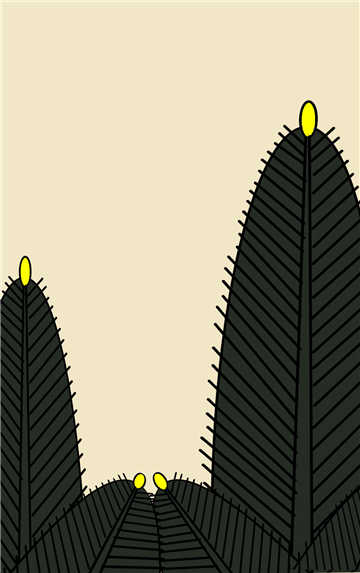
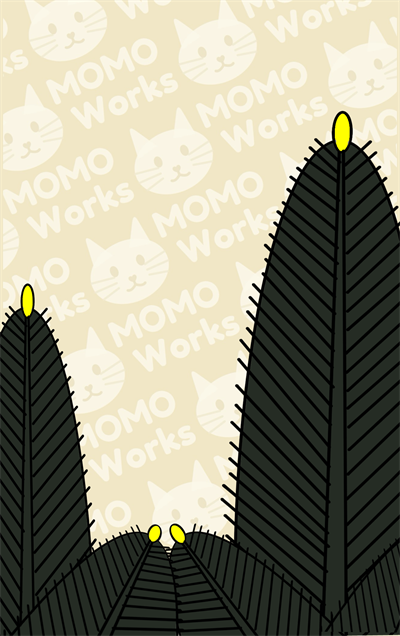
Hanafuda v1.54: 達成役に「達成した役：」見出し＋松のカス1差替・松のカス2画像化
- 取り札ヒントの成立役に「達成した役：」の見出しを付与（game.done.prefix・ja/en/zh）。
- 松のカス(m01_kasu1)をユーザー手描きの新PNGに差し替え、松のカス2(m01_kasu2)をSVGから手描きPNGへ画像化(縁付き・地紋は画像に焼き込み済み)。画像は 400x636 に縮小(各230KB台)。m01_kasu2 のシンボルを「縁+画像」構造へ変更。

Changed region(s): [[0.0, 0.0, 1.0, 0.8901], [0.9778, 0.9791, 1.0, 1.0], [0.0, 0.0297, 0.0306, 0.0593]]

diff --git a/games/hanafuda/index.html b/games/hanafuda/index.html
@@ -75,7 +75,7 @@
   .settings-volume-slider::-webkit-slider-thumb{-webkit-appearance:none;appearance:none;width:18px;height:18px;background:var(--orange-mid);border-radius:50%;cursor:pointer;border:2px solid #fff;}
   .settings-volume-slider::-moz-range-thumb{width:18px;height:18px;background:var(--orange-mid);border-radius:50%;cursor:pointer;border:2px solid #fff;}
   .settings-row-hint{font-size:11px;color:var(--text-muted);font-style:italic;}
-  /* v1.53: 音量スライダー＋右のミュートチェック */
+  /* v1.54: 音量スライダー＋右のミュートチェック */
   .vol-line{display:flex;align-items:center;gap:12px;}
   .vol-line .settings-volume-slider{flex:1;width:auto;}
   .mute-chk{display:flex;align-items:center;gap:5px;font-size:.72rem;color:var(--text-muted);white-space:nowrap;cursor:pointer;user-select:none;}
@@ -270,7 +270,7 @@
   .ct-row{display:flex;align-items:baseline;gap:10px;flex-wrap:wrap;}
   .nearcap{font-size:.62rem;color:var(--text-muted);}
   .nearcap b{color:var(--gold);}
-  .nearcap b.done{color:var(--orange);} /* v1.53: すでに成立している役＝オレンジ */
+  .nearcap b.done{color:var(--orange);} /* v1.54: すでに成立している役＝オレンジ */
   .nearcap b.dead{color:var(--gold);text-decoration:line-through;opacity:.75;} /* v1.42: 成立不可＝金色のまま見え消し */
   .mult-badge{display:inline-block;margin-left:6px;font-size:.78rem;font-weight:800;color:var(--gold-ink,#1a1206);background:var(--gold);border-radius:6px;padding:1px 7px;} /* v1.44: 倍率表示 */
   /* v1.46: ?debug=1で常時表示。対局を隠さないよう右上のコンパクト折りたたみ式（既定は畳んでヘッダのみ・コピーは畳んだままでも可） */
@@ -297,7 +297,7 @@
   .caprow .cards{display:flex;}
   .caprow .cards+.gl{margin-left:5px;padding-left:5px;border-left:1px solid var(--border);}
 
-  /* v1.53: 横画面（PC/横向き）＝A案レイアウト。縦画面は従来どおり。
+  /* v1.54: 横画面（PC/横向き）＝A案レイアウト。縦画面は従来どおり。
      左列＝相手手札→場→自分手札（縦の流れ維持）、右列＝取り札を上下（種別分けのまま）。 */
   @media (orientation:landscape){
     /* 対局画面（#screen-game 自身が .wrap）だけ外枠を広げる。他画面の狭い .wrap は影響なし */
@@ -405,7 +405,7 @@
   .btn-row .btn{flex:1;padding:11px;font-size:.9rem;}
   .btn-koikoi{background:#b8342b;color:#fff;}
   .btn-shobu{background:var(--orange);color:#fff;}
-  .btn-minooshi{background:transparent;color:var(--text-muted);border:1px solid var(--border-strong);} /* v1.53: 見送り＝役を取らず継続 */
+  .btn-minooshi{background:transparent;color:var(--text-muted);border:1px solid var(--border-strong);} /* v1.54: 見送り＝役を取らず継続 */
   .hint{font-size:.72rem;color:var(--text-muted);margin-top:8px;line-height:1.55;}
 
   /* SEO footer (MOMO Go 準拠：surface 背景・上罫線なし。テキストは text-muted より明るめ) */
@@ -596,8 +596,8 @@
     <path d="M0 16 C -2 -6 -1 -22 0 -32" stroke="#7fc4b0" stroke-width="1" fill="none" opacity=".6"/>
   </g>
   <g id="backFace"><rect x="3" y="3" width="214" height="344" rx="14" fill="#3a2418" stroke="#20130c" stroke-width="2.5"/></g>
-  <!-- v1.53: 札の地紋（MOMO猫＋MOMO Works・反転クリーム・生成り地）。build: emit_card_pattern.py --><defs><g id="ct_cat"><g transform="rotate(-12,-12,8.3)"><path d="M-21.6,-14.94 L-14.549,-35.916 Q-12,-43.5 -9.451,-35.916 L-2.4,-14.94 Z" fill="#fcf8ea"/></g><g transform="rotate(12,12,8.3)"><path d="M2.4,-14.94 L9.451,-35.916 Q12,-43.5 14.549,-35.916 L21.6,-14.94 Z" fill="#fcf8ea"/></g><ellipse cx="0" cy="1.3" rx="34" ry="26" fill="#fcf8ea"/><g stroke="#f2ead1" stroke-width="1.8" stroke-linecap="round"><line x1="-14" y1="1.00" x2="-33.68" y2="-2.28"/><line x1="-14" y1="6.0" x2="-33.44" y2="6.0"/><line x1="-14" y1="10.59" x2="-29.58" y2="14.26"/><line x1="14" y1="1.00" x2="33.68" y2="-2.28"/><line x1="14" y1="6.0" x2="33.44" y2="6.0"/><line x1="14" y1="10.59" x2="29.58" y2="14.26"/></g><ellipse cx="-12" cy="-3.7" rx="3.4" ry="4.8" fill="#ece2c4"/><ellipse cx="12" cy="-3.7" rx="3.4" ry="4.8" fill="#ece2c4"/><path d="M0,6.3 C-0.8,4.8 -3.5,4.8 -3.5,7.3 C-3.5,9.3 0,11.3 0,11.3 C0,11.3 3.5,9.3 3.5,7.3 C3.5,4.8 0.8,4.8 0,6.3 Z" fill="#ece2c4"/><path d="M0,11.3 L0,13.3 M0,13.3 Q-5,17.3 -8,15.3 M0,13.3 Q5,17.3 8,15.3" fill="none" stroke="#ece2c4" stroke-width="2.2" stroke-linecap="round"/></g><g id="ct_unit"><use href="#ct_cat" transform="translate(26.667,28.400) scale(0.66667)"/><path d="M819.0 705Q827.0 690 828.5 678.0Q830.0 666 830.0 643V88Q830.0 19 792.0 7Q773.0 1 744.0 1.0Q715.0 1 698.0 6.0Q681.0 11 672.0 18.0Q663.0 25 658.0 38Q653.0 55 653.0 90V425Q628.0 394 580.0 326.5Q532.0 259 519.0 242.0Q506.0 225 501.0 218.5Q496.0 212 476.5 200.5Q457.0 189 434.5 189.0Q412.0 189 393.5 199.5Q375.0 210 367.0 220L359.0 231Q339.0 256 280.0 337.5Q221.0 419 216.0 425V88Q216.0 65 214.5 53.5Q213.0 42 205.0 28Q190.0 1 127.0 1Q66.0 1 51.0 28Q43.0 42 41.5 54.0Q40.0 66 40.0 90V645Q40.0 668 41.5 679.5Q43.0 691 51.0 706Q66.0 732 129.0 732Q156.0 732 175.5 725.5Q195.0 719 201.0 712L207.0 706L434.0 408Q604.0 633 661.0 705Q678.0 732 741.5 732.0Q805.0 732 819.0 705ZM1254.0 742Q1402.0 742 1511.0 635.0Q1620.0 528 1620.0 369.5Q1620.0 211 1516.0 99.5Q1412.0 -12 1260.0 -12.0Q1108.0 -12 1001.5 98.0Q895.0 208 895.0 360Q895.0 443 925.0 515.5Q955.0 588 1005.0 637.0Q1055.0 686 1120.0 714.0Q1185.0 742 1254.0 742ZM1072.0 365.0Q1072.0 276 1129.5 220.5Q1187.0 165 1258.0 165.0Q1329.0 165 1386.0 219.0Q1443.0 273 1443.0 364.0Q1443.0 455 1385.5 510.0Q1328.0 565 1257.0 565.0Q1186.0 565 1129.0 509.5Q1072.0 454 1072.0 365.0ZM2464.0 705Q2472.0 690 2473.5 678.0Q2475.0 666 2475.0 643V88Q2475.0 19 2437.0 7Q2418.0 1 2389.0 1.0Q2360.0 1 2343.0 6.0Q2326.0 11 2317.0 18.0Q2308.0 25 2303.0 38Q2298.0 55 2298.0 90V425Q2273.0 394 2225.0 326.5Q2177.0 259 2164.0 242.0Q2151.0 225 2146.0 218.5Q2141.0 212 2121.5 200.5Q2102.0 189 2079.5 189.0Q2057.0 189 2038.5 199.5Q2020.0 210 2012.0 220L2004.0 231Q1984.0 256 1925.0 337.5Q1866.0 419 1861.0 425V88Q1861.0 65 1859.5 53.5Q1858.0 42 1850.0 28Q1835.0 1 1772.0 1Q1711.0 1 1696.0 28Q1688.0 42 1686.5 54.0Q1685.0 66 1685.0 90V645Q1685.0 668 1686.5 679.5Q1688.0 691 1696.0 706Q1711.0 732 1774.0 732Q1801.0 732 1820.5 725.5Q1840.0 719 1846.0 712L1852.0 706L2079.0 408Q2249.0 633 2306.0 705Q2323.0 732 2386.5 732.0Q2450.0 732 2464.0 705ZM2899.0 742Q3047.0 742 3156.0 635.0Q3265.0 528 3265.0 369.5Q3265.0 211 3161.0 99.5Q3057.0 -12 2905.0 -12.0Q2753.0 -12 2646.5 98.0Q2540.0 208 2540.0 360Q2540.0 443 2570.0 515.5Q2600.0 588 2650.0 637.0Q2700.0 686 2765.0 714.0Q2830.0 742 2899.0 742ZM2717.0 365.0Q2717.0 276 2774.5 220.5Q2832.0 165 2903.0 165.0Q2974.0 165 3031.0 219.0Q3088.0 273 3088.0 364.0Q3088.0 455 3030.5 510.0Q2973.0 565 2902.0 565.0Q2831.0 565 2774.0 509.5Q2717.0 454 2717.0 365.0Z" transform="translate(49.709,19.800) scale(0.020000,-0.020000)" fill="#f7f0dd"/><path d="M917.0 729Q984.0 705 984.0 665Q984.0 652 972.0 616L780.0 61Q778.0 54 773.0 44.0Q768.0 34 746.5 17.5Q725.0 1 695.5 1.0Q666.0 1 644.5 17.5Q623.0 34 616.0 50L499.0 395Q388.0 67 386.0 61.0Q384.0 55 377.0 44.0Q370.0 33 361.0 24Q338.0 1 306.0 1.0Q274.0 1 253.5 16.0Q233.0 31 226.0 46L219.0 61L26.0 616Q15.0 649 15.0 665Q15.0 705 82.0 728Q111.0 738 134.5 738.0Q158.0 738 170.5 722.0Q183.0 706 193.0 673L303.0 339L412.0 668Q426.0 710 463.0 726Q479.0 733 504.5 733.0Q530.0 733 552.0 716.5Q574.0 700 580.0 684L695.0 337L805.0 673Q813.0 696 818.0 707.0Q823.0 718 836.5 728.5Q850.0 739 870.0 739.0Q890.0 739 917.0 729ZM1574.0 264Q1574.0 181 1531.0 116.5Q1488.0 52 1426.5 21.5Q1365.0 -9 1299.0 -9.0Q1233.0 -9 1171.0 23.5Q1109.0 56 1066.5 119.5Q1024.0 183 1024.0 263Q1024.0 383 1108.0 461.0Q1192.0 539 1300.0 539.0Q1408.0 539 1491.0 461.5Q1574.0 384 1574.0 264ZM1233.0 191.5Q1265.0 167 1298.0 167.0Q1331.0 167 1364.0 192.0Q1397.0 217 1397.0 266.0Q1397.0 315 1366.0 339.0Q1335.0 363 1299.0 363.0Q1263.0 363 1232.0 338.0Q1201.0 313 1201.0 264.5Q1201.0 216 1233.0 191.5ZM1967.0 346Q1949.0 346 1932.5 354.0Q1916.0 362 1889.0 362.0Q1862.0 362 1838.5 343.0Q1815.0 324 1815.0 297V87Q1815.0 64 1813.5 52.5Q1812.0 41 1804.0 26Q1789.0 0 1726.0 0Q1678.0 0 1657.0 17Q1641.0 31 1639.0 60Q1639.0 70 1639.0 89V440Q1639.0 463 1640.5 474.5Q1642.0 486 1649.0 500Q1663.0 527 1727.0 527Q1787.0 527 1802.0 504Q1813.0 488 1813.0 471Q1818.0 478 1827.5 488.0Q1837.0 498 1868.0 515.0Q1899.0 532 1922.5 532.0Q1946.0 532 1962.0 529.5Q1978.0 527 1997.0 521.0Q2016.0 515 2028.5 500.5Q2041.0 486 2041.0 454.0Q2041.0 422 2022.0 384.0Q2003.0 346 1967.0 346ZM2406.0 264 2539.0 154Q2564.0 133 2570.5 122.0Q2577.0 111 2577.0 101Q2577.0 77 2546.0 36Q2512.0 -6 2486.0 -6Q2464.0 -6 2425.0 23L2415.0 30Q2392.0 49 2344.0 96.5Q2296.0 144 2271.0 164V87Q2271.0 64 2269.5 52.5Q2268.0 41 2260.0 26Q2247.0 0 2183.0 0Q2120.0 0 2106.0 27Q2099.0 42 2097.5 53.5Q2096.0 65 2096.0 88V687Q2096.0 710 2097.5 721.5Q2099.0 733 2106.0 748Q2120.0 775 2184.0 775Q2232.0 775 2252.0 758Q2269.0 744 2270.0 714Q2271.0 705 2271.0 686V369Q2289.0 384 2325.5 420.0Q2362.0 456 2380.0 471L2392.0 479Q2427.0 506 2452.0 506.0Q2477.0 506 2509.5 465.5Q2542.0 425 2542.0 402.0Q2542.0 379 2505.0 348ZM2636.0 47Q2617.0 59 2617.0 85.0Q2617.0 111 2655.0 164Q2666.0 181 2690.5 181.0Q2715.0 181 2757.0 156.5Q2799.0 132 2833.0 132Q2894.0 132 2894.0 156Q2894.0 175 2827.0 184Q2764.0 193 2702.0 231Q2673.0 249 2654.0 287.5Q2635.0 326 2635.0 379Q2635.0 537 2852.0 537Q2923.0 537 2998.0 503Q3033.0 487 3033.0 463.0Q3033.0 439 3011.0 404.0Q2989.0 369 2966.0 369Q2954.0 369 2921.5 384.0Q2889.0 399 2851.0 399Q2792.0 399 2792.0 377Q2792.0 347 2860.0 338Q2926.0 331 2988.0 300Q3017.0 286 3036.5 251.5Q3056.0 217 3056.0 165.0Q3056.0 113 3036.5 76.5Q3017.0 40 2982.0 22Q2918.0 -9 2821.5 -9.0Q2725.0 -9 2636.0 47Z" transform="translate(56.333,39.400) scale(0.020000,-0.020000)" fill="#f7f0dd"/></g><pattern id="cardTile" width="118.509" height="230.000" patternUnits="userSpaceOnUse" patternTransform="rotate(-24)"><rect width="118.509" height="230.000" fill="#f1e6c6"/><g fill-opacity="0.85" stroke-opacity="0.85"><use href="#ct_unit" transform="translate(47.404,-46.000)"/><use href="#ct_unit" transform="translate(-71.106,-46.000)"/><use href="#ct_unit" transform="translate(0.000,0.000)"/><use href="#ct_unit" transform="translate(-118.509,0.000)"/><use href="#ct_unit" transform="translate(71.106,46.000)"/><use href="#ct_unit" transform="translate(-47.404,46.000)"/><use href="#ct_unit" transform="translate(23.702,92.000)"/><use href="#ct_unit" transform="translate(-94.807,92.000)"/><use href="#ct_unit" transform="translate(94.807,138.000)"/><use href="#ct_unit" transform="translate(-23.702,138.000)"/><use href="#ct_unit" transform="translate(47.404,184.000)"/><use href="#ct_unit" transform="translate(-71.106,184.000)"/><use href="#ct_unit" transform="translate(0.000,230.000)"/><use href="#ct_unit" transform="translate(-118.509,230.000)"/></g></pattern></defs>
-  <!-- v1.53: 札の地紋（MOMO猫＋MOMO Works・反転クリーム・地色#efe0a6）。build: emit_card_pattern.py --><defs><g id="ct_catKiri"><g transform="rotate(-12,-12,8.3)"><path d="M-21.6,-14.94 L-14.549,-35.916 Q-12,-43.5 -9.451,-35.916 L-2.4,-14.94 Z" fill="#fcf8ea"/></g><g transform="rotate(12,12,8.3)"><path d="M2.4,-14.94 L9.451,-35.916 Q12,-43.5 14.549,-35.916 L21.6,-14.94 Z" fill="#fcf8ea"/></g><ellipse cx="0" cy="1.3" rx="34" ry="26" fill="#fcf8ea"/><g stroke="#f2ead1" stroke-width="1.8" stroke-linecap="round"><line x1="-14" y1="1.00" x2="-33.68" y2="-2.28"/><line x1="-14" y1="6.0" x2="-33.44" y2="6.0"/><line x1="-14" y1="10.59" x2="-29.58" y2="14.26"/><line x1="14" y1="1.00" x2="33.68" y2="-2.28"/><line x1="14" y1="6.0" x2="33.44" y2="6.0"/><line x1="14" y1="10.59" x2="29.58" y2="14.26"/></g><ellipse cx="-12" cy="-3.7" rx="3.4" ry="4.8" fill="#ece2c4"/><ellipse cx="12" cy="-3.7" rx="3.4" ry="4.8" fill="#ece2c4"/><path d="M0,6.3 C-0.8,4.8 -3.5,4.8 -3.5,7.3 C-3.5,9.3 0,11.3 0,11.3 C0,11.3 3.5,9.3 3.5,7.3 C3.5,4.8 0.8,4.8 0,6.3 Z" fill="#ece2c4"/><path d="M0,11.3 L0,13.3 M0,13.3 Q-5,17.3 -8,15.3 M0,13.3 Q5,17.3 8,15.3" fill="none" stroke="#ece2c4" stroke-width="2.2" stroke-linecap="round"/></g><g id="ct_unitKiri"><use href="#ct_catKiri" transform="translate(26.667,28.400) scale(0.66667)"/><path d="M819.0 705Q827.0 690 828.5 678.0Q830.0 666 830.0 643V88Q830.0 19 792.0 7Q773.0 1 744.0 1.0Q715.0 1 698.0 6.0Q681.0 11 672.0 18.0Q663.0 25 658.0 38Q653.0 55 653.0 90V425Q628.0 394 580.0 326.5Q532.0 259 519.0 242.0Q506.0 225 501.0 218.5Q496.0 212 476.5 200.5Q457.0 189 434.5 189.0Q412.0 189 393.5 199.5Q375.0 210 367.0 220L359.0 231Q339.0 256 280.0 337.5Q221.0 419 216.0 425V88Q216.0 65 214.5 53.5Q213.0 42 205.0 28Q190.0 1 127.0 1Q66.0 1 51.0 28Q43.0 42 41.5 54.0Q40.0 66 40.0 90V645Q40.0 668 41.5 679.5Q43.0 691 51.0 706Q66.0 732 129.0 732Q156.0 732 175.5 725.5Q195.0 719 201.0 712L207.0 706L434.0 408Q604.0 633 661.0 705Q678.0 732 741.5 732.0Q805.0 732 819.0 705ZM1254.0 742Q1402.0 742 1511.0 635.0Q1620.0 528 1620.0 369.5Q1620.0 211 1516.0 99.5Q1412.0 -12 1260.0 -12.0Q1108.0 -12 1001.5 98.0Q895.0 208 895.0 360Q895.0 443 925.0 515.5Q955.0 588 1005.0 637.0Q1055.0 686 1120.0 714.0Q1185.0 742 1254.0 742ZM1072.0 365.0Q1072.0 276 1129.5 220.5Q1187.0 165 1258.0 165.0Q1329.0 165 1386.0 219.0Q1443.0 273 1443.0 364.0Q1443.0 455 1385.5 510.0Q1328.0 565 1257.0 565.0Q1186.0 565 1129.0 509.5Q1072.0 454 1072.0 365.0ZM2464.0 705Q2472.0 690 2473.5 678.0Q2475.0 666 2475.0 643V88Q2475.0 19 2437.0 7Q2418.0 1 2389.0 1.0Q2360.0 1 2343.0 6.0Q2326.0 11 2317.0 18.0Q2308.0 25 2303.0 38Q2298.0 55 2298.0 90V425Q2273.0 394 2225.0 326.5Q2177.0 259 2164.0 242.0Q2151.0 225 2146.0 218.5Q2141.0 212 2121.5 200.5Q2102.0 189 2079.5 189.0Q2057.0 189 2038.5 199.5Q2020.0 210 2012.0 220L2004.0 231Q1984.0 256 1925.0 337.5Q1866.0 419 1861.0 425V88Q1861.0 65 1859.5 53.5Q1858.0 42 1850.0 28Q1835.0 1 1772.0 1Q1711.0 1 1696.0 28Q1688.0 42 1686.5 54.0Q1685.0 66 1685.0 90V645Q1685.0 668 1686.5 679.5Q1688.0 691 1696.0 706Q1711.0 732 1774.0 732Q1801.0 732 1820.5 725.5Q1840.0 719 1846.0 712L1852.0 706L2079.0 408Q2249.0 633 2306.0 705Q2323.0 732 2386.5 732.0Q2450.0 732 2464.0 705ZM2899.0 742Q3047.0 742 3156.0 635.0Q3265.0 528 3265.0 369.5Q3265.0 211 3161.0 99.5Q3057.0 -12 2905.0 -12.0Q2753.0 -12 2646.5 98.0Q2540.0 208 2540.0 360Q2540.0 443 2570.0 515.5Q2600.0 588 2650.0 637.0Q2700.0 686 2765.0 714.0Q2830.0 742 2899.0 742ZM2717.0 365.0Q2717.0 276 2774.5 220.5Q2832.0 165 2903.0 165.0Q2974.0 165 3031.0 219.0Q3088.0 273 3088.0 364.0Q3088.0 455 3030.5 510.0Q2973.0 565 2902.0 565.0Q2831.0 565 2774.0 509.5Q2717.0 454 2717.0 365.0Z" transform="translate(49.709,19.800) scale(0.020000,-0.020000)" fill="#f7f0dd"/><path d="M917.0 729Q984.0 705 984.0 665Q984.0 652 972.0 616L780.0 61Q778.0 54 773.0 44.0Q768.0 34 746.5 17.5Q725.0 1 695.5 1.0Q666.0 1 644.5 17.5Q623.0 34 616.0 50L499.0 395Q388.0 67 386.0 61.0Q384.0 55 377.0 44.0Q370.0 33 361.0 24Q338.0 1 306.0 1.0Q274.0 1 253.5 16.0Q233.0 31 226.0 46L219.0 61L26.0 616Q15.0 649 15.0 665Q15.0 705 82.0 728Q111.0 738 134.5 738.0Q158.0 738 170.5 722.0Q183.0 706 193.0 673L303.0 339L412.0 668Q426.0 710 463.0 726Q479.0 733 504.5 733.0Q530.0 733 552.0 716.5Q574.0 700 580.0 684L695.0 337L805.0 673Q813.0 696 818.0 707.0Q823.0 718 836.5 728.5Q850.0 739 870.0 739.0Q890.0 739 917.0 729ZM1574.0 264Q1574.0 181 1531.0 116.5Q1488.0 52 1426.5 21.5Q1365.0 -9 1299.0 -9.0Q1233.0 -9 1171.0 23.5Q1109.0 56 1066.5 119.5Q1024.0 183 1024.0 263Q1024.0 383 1108.0 461.0Q1192.0 539 1300.0 539.0Q1408.0 539 1491.0 461.5Q1574.0 384 1574.0 264ZM1233.0 191.5Q1265.0 167 1298.0 167.0Q1331.0 167 1364.0 192.0Q1397.0 217 1397.0 266.0Q1397.0 315 1366.0 339.0Q1335.0 363 1299.0 363.0Q1263.0 363 1232.0 338.0Q1201.0 313 1201.0 264.5Q1201.0 216 1233.0 191.5ZM1967.0 346Q1949.0 346 1932.5 354.0Q1916.0 362 1889.0 362.0Q1862.0 362 1838.5 343.0Q1815.0 324 1815.0 297V87Q1815.0 64 1813.5 52.5Q1812.0 41 1804.0 26Q1789.0 0 1726.0 0Q1678.0 0 1657.0 17Q1641.0 31 1639.0 60Q1639.0 70 1639.0 89V440Q1639.0 463 1640.5 474.5Q1642.0 486 1649.0 500Q1663.0 527 1727.0 527Q1787.0 527 1802.0 504Q1813.0 488 1813.0 471Q1818.0 478 1827.5 488.0Q1837.0 498 1868.0 515.0Q1899.0 532 1922.5 532.0Q1946.0 532 1962.0 529.5Q1978.0 527 1997.0 521.0Q2016.0 515 2028.5 500.5Q2041.0 486 2041.0 454.0Q2041.0 422 2022.0 384.0Q2003.0 346 1967.0 346ZM2406.0 264 2539.0 154Q2564.0 133 2570.5 122.0Q2577.0 111 2577.0 101Q2577.0 77 2546.0 36Q2512.0 -6 2486.0 -6Q2464.0 -6 2425.0 23L2415.0 30Q2392.0 49 2344.0 96.5Q2296.0 144 2271.0 164V87Q2271.0 64 2269.5 52.5Q2268.0 41 2260.0 26Q2247.0 0 2183.0 0Q2120.0 0 2106.0 27Q2099.0 42 2097.5 53.5Q2096.0 65 2096.0 88V687Q2096.0 710 2097.5 721.5Q2099.0 733 2106.0 748Q2120.0 775 2184.0 775Q2232.0 775 2252.0 758Q2269.0 744 2270.0 714Q2271.0 705 2271.0 686V369Q2289.0 384 2325.5 420.0Q2362.0 456 2380.0 471L2392.0 479Q2427.0 506 2452.0 506.0Q2477.0 506 2509.5 465.5Q2542.0 425 2542.0 402.0Q2542.0 379 2505.0 348ZM2636.0 47Q2617.0 59 2617.0 85.0Q2617.0 111 2655.0 164Q2666.0 181 2690.5 181.0Q2715.0 181 2757.0 156.5Q2799.0 132 2833.0 132Q2894.0 132 2894.0 156Q2894.0 175 2827.0 184Q2764.0 193 2702.0 231Q2673.0 249 2654.0 287.5Q2635.0 326 2635.0 379Q2635.0 537 2852.0 537Q2923.0 537 2998.0 503Q3033.0 487 3033.0 463.0Q3033.0 439 3011.0 404.0Q2989.0 369 2966.0 369Q2954.0 369 2921.5 384.0Q2889.0 399 2851.0 399Q2792.0 399 2792.0 377Q2792.0 347 2860.0 338Q2926.0 331 2988.0 300Q3017.0 286 3036.5 251.5Q3056.0 217 3056.0 165.0Q3056.0 113 3036.5 76.5Q3017.0 40 2982.0 22Q2918.0 -9 2821.5 -9.0Q2725.0 -9 2636.0 47Z" transform="translate(56.333,39.400) scale(0.020000,-0.020000)" fill="#f7f0dd"/></g><pattern id="cardTileKiri" width="118.509" height="230.000" patternUnits="userSpaceOnUse" patternTransform="rotate(-24)"><rect width="118.509" height="230.000" fill="#efe0a6"/><g fill-opacity="0.85" stroke-opacity="0.85"><use href="#ct_unitKiri" transform="translate(47.404,-46.000)"/><use href="#ct_unitKiri" transform="translate(-71.106,-46.000)"/><use href="#ct_unitKiri" transform="translate(0.000,0.000)"/><use href="#ct_unitKiri" transform="translate(-118.509,0.000)"/><use href="#ct_unitKiri" transform="translate(71.106,46.000)"/><use href="#ct_unitKiri" transform="translate(-47.404,46.000)"/><use href="#ct_unitKiri" transform="translate(23.702,92.000)"/><use href="#ct_unitKiri" transform="translate(-94.807,92.000)"/><use href="#ct_unitKiri" transform="translate(94.807,138.000)"/><use href="#ct_unitKiri" transform="translate(-23.702,138.000)"/><use href="#ct_unitKiri" transform="translate(47.404,184.000)"/><use href="#ct_unitKiri" transform="translate(-71.106,184.000)"/><use href="#ct_unitKiri" transform="translate(0.000,230.000)"/><use href="#ct_unitKiri" transform="translate(-118.509,230.000)"/></g></pattern></defs>
+  <!-- v1.54: 札の地紋（MOMO猫＋MOMO Works・反転クリーム・生成り地）。build: emit_card_pattern.py --><defs><g id="ct_cat"><g transform="rotate(-12,-12,8.3)"><path d="M-21.6,-14.94 L-14.549,-35.916 Q-12,-43.5 -9.451,-35.916 L-2.4,-14.94 Z" fill="#fcf8ea"/></g><g transform="rotate(12,12,8.3)"><path d="M2.4,-14.94 L9.451,-35.916 Q12,-43.5 14.549,-35.916 L21.6,-14.94 Z" fill="#fcf8ea"/></g><ellipse cx="0" cy="1.3" rx="34" ry="26" fill="#fcf8ea"/><g stroke="#f2ead1" stroke-width="1.8" stroke-linecap="round"><line x1="-14" y1="1.00" x2="-33.68" y2="-2.28"/><line x1="-14" y1="6.0" x2="-33.44" y2="6.0"/><line x1="-14" y1="10.59" x2="-29.58" y2="14.26"/><line x1="14" y1="1.00" x2="33.68" y2="-2.28"/><line x1="14" y1="6.0" x2="33.44" y2="6.0"/><line x1="14" y1="10.59" x2="29.58" y2="14.26"/></g><ellipse cx="-12" cy="-3.7" rx="3.4" ry="4.8" fill="#ece2c4"/><ellipse cx="12" cy="-3.7" rx="3.4" ry="4.8" fill="#ece2c4"/><path d="M0,6.3 C-0.8,4.8 -3.5,4.8 -3.5,7.3 C-3.5,9.3 0,11.3 0,11.3 C0,11.3 3.5,9.3 3.5,7.3 C3.5,4.8 0.8,4.8 0,6.3 Z" fill="#ece2c4"/><path d="M0,11.3 L0,13.3 M0,13.3 Q-5,17.3 -8,15.3 M0,13.3 Q5,17.3 8,15.3" fill="none" stroke="#ece2c4" stroke-width="2.2" stroke-linecap="round"/></g><g id="ct_unit"><use href="#ct_cat" transform="translate(26.667,28.400) scale(0.66667)"/><path d="M819.0 705Q827.0 690 828.5 678.0Q830.0 666 830.0 643V88Q830.0 19 792.0 7Q773.0 1 744.0 1.0Q715.0 1 698.0 6.0Q681.0 11 672.0 18.0Q663.0 25 658.0 38Q653.0 55 653.0 90V425Q628.0 394 580.0 326.5Q532.0 259 519.0 242.0Q506.0 225 501.0 218.5Q496.0 212 476.5 200.5Q457.0 189 434.5 189.0Q412.0 189 393.5 199.5Q375.0 210 367.0 220L359.0 231Q339.0 256 280.0 337.5Q221.0 419 216.0 425V88Q216.0 65 214.5 53.5Q213.0 42 205.0 28Q190.0 1 127.0 1Q66.0 1 51.0 28Q43.0 42 41.5 54.0Q40.0 66 40.0 90V645Q40.0 668 41.5 679.5Q43.0 691 51.0 706Q66.0 732 129.0 732Q156.0 732 175.5 725.5Q195.0 719 201.0 712L207.0 706L434.0 408Q604.0 633 661.0 705Q678.0 732 741.5 732.0Q805.0 732 819.0 705ZM1254.0 742Q1402.0 742 1511.0 635.0Q1620.0 528 1620.0 369.5Q1620.0 211 1516.0 99.5Q1412.0 -12 1260.0 -12.0Q1108.0 -12 1001.5 98.0Q895.0 208 895.0 360Q895.0 443 925.0 515.5Q955.0 588 1005.0 637.0Q1055.0 686 1120.0 714.0Q1185.0 742 1254.0 742ZM1072.0 365.0Q1072.0 276 1129.5 220.5Q1187.0 165 1258.0 165.0Q1329.0 165 1386.0 219.0Q1443.0 273 1443.0 364.0Q1443.0 455 1385.5 510.0Q1328.0 565 1257.0 565.0Q1186.0 565 1129.0 509.5Q1072.0 454 1072.0 365.0ZM2464.0 705Q2472.0 690 2473.5 678.0Q2475.0 666 2475.0 643V88Q2475.0 19 2437.0 7Q2418.0 1 2389.0 1.0Q2360.0 1 2343.0 6.0Q2326.0 11 2317.0 18.0Q2308.0 25 2303.0 38Q2298.0 55 2298.0 90V425Q2273.0 394 2225.0 326.5Q2177.0 259 2164.0 242.0Q2151.0 225 2146.0 218.5Q2141.0 212 2121.5 200.5Q2102.0 189 2079.5 189.0Q2057.0 189 2038.5 199.5Q2020.0 210 2012.0 220L2004.0 231Q1984.0 256 1925.0 337.5Q1866.0 419 1861.0 425V88Q1861.0 65 1859.5 53.5Q1858.0 42 1850.0 28Q1835.0 1 1772.0 1Q1711.0 1 1696.0 28Q1688.0 42 1686.5 54.0Q1685.0 66 1685.0 90V645Q1685.0 668 1686.5 679.5Q1688.0 691 1696.0 706Q1711.0 732 1774.0 732Q1801.0 732 1820.5 725.5Q1840.0 719 1846.0 712L1852.0 706L2079.0 408Q2249.0 633 2306.0 705Q2323.0 732 2386.5 732.0Q2450.0 732 2464.0 705ZM2899.0 742Q3047.0 742 3156.0 635.0Q3265.0 528 3265.0 369.5Q3265.0 211 3161.0 99.5Q3057.0 -12 2905.0 -12.0Q2753.0 -12 2646.5 98.0Q2540.0 208 2540.0 360Q2540.0 443 2570.0 515.5Q2600.0 588 2650.0 637.0Q2700.0 686 2765.0 714.0Q2830.0 742 2899.0 742ZM2717.0 365.0Q2717.0 276 2774.5 220.5Q2832.0 165 2903.0 165.0Q2974.0 165 3031.0 219.0Q3088.0 273 3088.0 364.0Q3088.0 455 3030.5 510.0Q2973.0 565 2902.0 565.0Q2831.0 565 2774.0 509.5Q2717.0 454 2717.0 365.0Z" transform="translate(49.709,19.800) scale(0.020000,-0.020000)" fill="#f7f0dd"/><path d="M917.0 729Q984.0 705 984.0 665Q984.0 652 972.0 616L780.0 61Q778.0 54 773.0 44.0Q768.0 34 746.5 17.5Q725.0 1 695.5 1.0Q666.0 1 644.5 17.5Q623.0 34 616.0 50L499.0 395Q388.0 67 386.0 61.0Q384.0 55 377.0 44.0Q370.0 33 361.0 24Q338.0 1 306.0 1.0Q274.0 1 253.5 16.0Q233.0 31 226.0 46L219.0 61L26.0 616Q15.0 649 15.0 665Q15.0 705 82.0 728Q111.0 738 134.5 738.0Q158.0 738 170.5 722.0Q183.0 706 193.0 673L303.0 339L412.0 668Q426.0 710 463.0 726Q479.0 733 504.5 733.0Q530.0 733 552.0 716.5Q574.0 700 580.0 684L695.0 337L805.0 673Q813.0 696 818.0 707.0Q823.0 718 836.5 728.5Q850.0 739 870.0 739.0Q890.0 739 917.0 729ZM1574.0 264Q1574.0 181 1531.0 116.5Q1488.0 52 1426.5 21.5Q1365.0 -9 1299.0 -9.0Q1233.0 -9 1171.0 23.5Q1109.0 56 1066.5 119.5Q1024.0 183 1024.0 263Q1024.0 383 1108.0 461.0Q1192.0 539 1300.0 539.0Q1408.0 539 1491.0 461.5Q1574.0 384 1574.0 264ZM1233.0 191.5Q1265.0 167 1298.0 167.0Q1331.0 167 1364.0 192.0Q1397.0 217 1397.0 266.0Q1397.0 315 1366.0 339.0Q1335.0 363 1299.0 363.0Q1263.0 363 1232.0 338.0Q1201.0 313 1201.0 264.5Q1201.0 216 1233.0 191.5ZM1967.0 346Q1949.0 346 1932.5 354.0Q1916.0 362 1889.0 362.0Q1862.0 362 1838.5 343.0Q1815.0 324 1815.0 297V87Q1815.0 64 1813.5 52.5Q1812.0 41 1804.0 26Q1789.0 0 1726.0 0Q1678.0 0 1657.0 17Q1641.0 31 1639.0 60Q1639.0 70 1639.0 89V440Q1639.0 463 1640.5 474.5Q1642.0 486 1649.0 500Q1663.0 527 1727.0 527Q1787.0 527 1802.0 504Q1813.0 488 1813.0 471Q1818.0 478 1827.5 488.0Q1837.0 498 1868.0 515.0Q1899.0 532 1922.5 532.0Q1946.0 532 1962.0 529.5Q1978.0 527 1997.0 521.0Q2016.0 515 2028.5 500.5Q2041.0 486 2041.0 454.0Q2041.0 422 2022.0 384.0Q2003.0 346 1967.0 346ZM2406.0 264 2539.0 154Q2564.0 133 2570.5 122.0Q2577.0 111 2577.0 101Q2577.0 77 2546.0 36Q2512.0 -6 2486.0 -6Q2464.0 -6 2425.0 23L2415.0 30Q2392.0 49 2344.0 96.5Q2296.0 144 2271.0 164V87Q2271.0 64 2269.5 52.5Q2268.0 41 2260.0 26Q2247.0 0 2183.0 0Q2120.0 0 2106.0 27Q2099.0 42 2097.5 53.5Q2096.0 65 2096.0 88V687Q2096.0 710 2097.5 721.5Q2099.0 733 2106.0 748Q2120.0 775 2184.0 775Q2232.0 775 2252.0 758Q2269.0 744 2270.0 714Q2271.0 705 2271.0 686V369Q2289.0 384 2325.5 420.0Q2362.0 456 2380.0 471L2392.0 479Q2427.0 506 2452.0 506.0Q2477.0 506 2509.5 465.5Q2542.0 425 2542.0 402.0Q2542.0 379 2505.0 348ZM2636.0 47Q2617.0 59 2617.0 85.0Q2617.0 111 2655.0 164Q2666.0 181 2690.5 181.0Q2715.0 181 2757.0 156.5Q2799.0 132 2833.0 132Q2894.0 132 2894.0 156Q2894.0 175 2827.0 184Q2764.0 193 2702.0 231Q2673.0 249 2654.0 287.5Q2635.0 326 2635.0 379Q2635.0 537 2852.0 537Q2923.0 537 2998.0 503Q3033.0 487 3033.0 463.0Q3033.0 439 3011.0 404.0Q2989.0 369 2966.0 369Q2954.0 369 2921.5 384.0Q2889.0 399 2851.0 399Q2792.0 399 2792.0 377Q2792.0 347 2860.0 338Q2926.0 331 2988.0 300Q3017.0 286 3036.5 251.5Q3056.0 217 3056.0 165.0Q3056.0 113 3036.5 76.5Q3017.0 40 2982.0 22Q2918.0 -9 2821.5 -9.0Q2725.0 -9 2636.0 47Z" transform="translate(56.333,39.400) scale(0.020000,-0.020000)" fill="#f7f0dd"/></g><pattern id="cardTile" width="118.509" height="230.000" patternUnits="userSpaceOnUse" patternTransform="rotate(-24)"><rect width="118.509" height="230.000" fill="#f1e6c6"/><g fill-opacity="0.85" stroke-opacity="0.85"><use href="#ct_unit" transform="translate(47.404,-46.000)"/><use href="#ct_unit" transform="translate(-71.106,-46.000)"/><use href="#ct_unit" transform="translate(0.000,0.000)"/><use href="#ct_unit" transform="translate(-118.509,0.000)"/><use href="#ct_unit" transform="translate(71.106,46.000)"/><use href="#ct_unit" transform="translate(-47.404,46.000)"/><use href="#ct_unit" transform="translate(23.702,92.000)"/><use href="#ct_unit" transform="translate(-94.807,92.000)"/><use href="#ct_unit" transform="translate(94.807,138.000)"/><use href="#ct_unit" transform="translate(-23.702,138.000)"/><use href="#ct_unit" transform="translate(47.404,184.000)"/><use href="#ct_unit" transform="translate(-71.106,184.000)"/><use href="#ct_unit" transform="translate(0.000,230.000)"/><use href="#ct_unit" transform="translate(-118.509,230.000)"/></g></pattern></defs>
+  <!-- v1.54: 札の地紋（MOMO猫＋MOMO Works・反転クリーム・地色#efe0a6）。build: emit_card_pattern.py --><defs><g id="ct_catKiri"><g transform="rotate(-12,-12,8.3)"><path d="M-21.6,-14.94 L-14.549,-35.916 Q-12,-43.5 -9.451,-35.916 L-2.4,-14.94 Z" fill="#fcf8ea"/></g><g transform="rotate(12,12,8.3)"><path d="M2.4,-14.94 L9.451,-35.916 Q12,-43.5 14.549,-35.916 L21.6,-14.94 Z" fill="#fcf8ea"/></g><ellipse cx="0" cy="1.3" rx="34" ry="26" fill="#fcf8ea"/><g stroke="#f2ead1" stroke-width="1.8" stroke-linecap="round"><line x1="-14" y1="1.00" x2="-33.68" y2="-2.28"/><line x1="-14" y1="6.0" x2="-33.44" y2="6.0"/><line x1="-14" y1="10.59" x2="-29.58" y2="14.26"/><line x1="14" y1="1.00" x2="33.68" y2="-2.28"/><line x1="14" y1="6.0" x2="33.44" y2="6.0"/><line x1="14" y1="10.59" x2="29.58" y2="14.26"/></g><ellipse cx="-12" cy="-3.7" rx="3.4" ry="4.8" fill="#ece2c4"/><ellipse cx="12" cy="-3.7" rx="3.4" ry="4.8" fill="#ece2c4"/><path d="M0,6.3 C-0.8,4.8 -3.5,4.8 -3.5,7.3 C-3.5,9.3 0,11.3 0,11.3 C0,11.3 3.5,9.3 3.5,7.3 C3.5,4.8 0.8,4.8 0,6.3 Z" fill="#ece2c4"/><path d="M0,11.3 L0,13.3 M0,13.3 Q-5,17.3 -8,15.3 M0,13.3 Q5,17.3 8,15.3" fill="none" stroke="#ece2c4" stroke-width="2.2" stroke-linecap="round"/></g><g id="ct_unitKiri"><use href="#ct_catKiri" transform="translate(26.667,28.400) scale(0.66667)"/><path d="M819.0 705Q827.0 690 828.5 678.0Q830.0 666 830.0 643V88Q830.0 19 792.0 7Q773.0 1 744.0 1.0Q715.0 1 698.0 6.0Q681.0 11 672.0 18.0Q663.0 25 658.0 38Q653.0 55 653.0 90V425Q628.0 394 580.0 326.5Q532.0 259 519.0 242.0Q506.0 225 501.0 218.5Q496.0 212 476.5 200.5Q457.0 189 434.5 189.0Q412.0 189 393.5 199.5Q375.0 210 367.0 220L359.0 231Q339.0 256 280.0 337.5Q221.0 419 216.0 425V88Q216.0 65 214.5 53.5Q213.0 42 205.0 28Q190.0 1 127.0 1Q66.0 1 51.0 28Q43.0 42 41.5 54.0Q40.0 66 40.0 90V645Q40.0 668 41.5 679.5Q43.0 691 51.0 706Q66.0 732 129.0 732Q156.0 732 175.5 725.5Q195.0 719 201.0 712L207.0 706L434.0 408Q604.0 633 661.0 705Q678.0 732 741.5 732.0Q805.0 732 819.0 705ZM1254.0 742Q1402.0 742 1511.0 635.0Q1620.0 528 1620.0 369.5Q1620.0 211 1516.0 99.5Q1412.0 -12 1260.0 -12.0Q1108.0 -12 1001.5 98.0Q895.0 208 895.0 360Q895.0 443 925.0 515.5Q955.0 588 1005.0 637.0Q1055.0 686 1120.0 714.0Q1185.0 742 1254.0 742ZM1072.0 365.0Q1072.0 276 1129.5 220.5Q1187.0 165 1258.0 165.0Q1329.0 165 1386.0 219.0Q1443.0 273 1443.0 364.0Q1443.0 455 1385.5 510.0Q1328.0 565 1257.0 565.0Q1186.0 565 1129.0 509.5Q1072.0 454 1072.0 365.0ZM2464.0 705Q2472.0 690 2473.5 678.0Q2475.0 666 2475.0 643V88Q2475.0 19 2437.0 7Q2418.0 1 2389.0 1.0Q2360.0 1 2343.0 6.0Q2326.0 11 2317.0 18.0Q2308.0 25 2303.0 38Q2298.0 55 2298.0 90V425Q2273.0 394 2225.0 326.5Q2177.0 259 2164.0 242.0Q2151.0 225 2146.0 218.5Q2141.0 212 2121.5 200.5Q2102.0 189 2079.5 189.0Q2057.0 189 2038.5 199.5Q2020.0 210 2012.0 220L2004.0 231Q1984.0 256 1925.0 337.5Q1866.0 419 1861.0 425V88Q1861.0 65 1859.5 53.5Q1858.0 42 1850.0 28Q1835.0 1 1772.0 1Q1711.0 1 1696.0 28Q1688.0 42 1686.5 54.0Q1685.0 66 1685.0 90V645Q1685.0 668 1686.5 679.5Q1688.0 691 1696.0 706Q1711.0 732 1774.0 732Q1801.0 732 1820.5 725.5Q1840.0 719 1846.0 712L1852.0 706L2079.0 408Q2249.0 633 2306.0 705Q2323.0 732 2386.5 732.0Q2450.0 732 2464.0 705ZM2899.0 742Q3047.0 742 3156.0 635.0Q3265.0 528 3265.0 369.5Q3265.0 211 3161.0 99.5Q3057.0 -12 2905.0 -12.0Q2753.0 -12 2646.5 98.0Q2540.0 208 2540.0 360Q2540.0 443 2570.0 515.5Q2600.0 588 2650.0 637.0Q2700.0 686 2765.0 714.0Q2830.0 742 2899.0 742ZM2717.0 365.0Q2717.0 276 2774.5 220.5Q2832.0 165 2903.0 165.0Q2974.0 165 3031.0 219.0Q3088.0 273 3088.0 364.0Q3088.0 455 3030.5 510.0Q2973.0 565 2902.0 565.0Q2831.0 565 2774.0 509.5Q2717.0 454 2717.0 365.0Z" transform="translate(49.709,19.800) scale(0.020000,-0.020000)" fill="#f7f0dd"/><path d="M917.0 729Q984.0 705 984.0 665Q984.0 652 972.0 616L780.0 61Q778.0 54 773.0 44.0Q768.0 34 746.5 17.5Q725.0 1 695.5 1.0Q666.0 1 644.5 17.5Q623.0 34 616.0 50L499.0 395Q388.0 67 386.0 61.0Q384.0 55 377.0 44.0Q370.0 33 361.0 24Q338.0 1 306.0 1.0Q274.0 1 253.5 16.0Q233.0 31 226.0 46L219.0 61L26.0 616Q15.0 649 15.0 665Q15.0 705 82.0 728Q111.0 738 134.5 738.0Q158.0 738 170.5 722.0Q183.0 706 193.0 673L303.0 339L412.0 668Q426.0 710 463.0 726Q479.0 733 504.5 733.0Q530.0 733 552.0 716.5Q574.0 700 580.0 684L695.0 337L805.0 673Q813.0 696 818.0 707.0Q823.0 718 836.5 728.5Q850.0 739 870.0 739.0Q890.0 739 917.0 729ZM1574.0 264Q1574.0 181 1531.0 116.5Q1488.0 52 1426.5 21.5Q1365.0 -9 1299.0 -9.0Q1233.0 -9 1171.0 23.5Q1109.0 56 1066.5 119.5Q1024.0 183 1024.0 263Q1024.0 383 1108.0 461.0Q1192.0 539 1300.0 539.0Q1408.0 539 1491.0 461.5Q1574.0 384 1574.0 264ZM1233.0 191.5Q1265.0 167 1298.0 167.0Q1331.0 167 1364.0 192.0Q1397.0 217 1397.0 266.0Q1397.0 315 1366.0 339.0Q1335.0 363 1299.0 363.0Q1263.0 363 1232.0 338.0Q1201.0 313 1201.0 264.5Q1201.0 216 1233.0 191.5ZM1967.0 346Q1949.0 346 1932.5 354.0Q1916.0 362 1889.0 362.0Q1862.0 362 1838.5 343.0Q1815.0 324 1815.0 297V87Q1815.0 64 1813.5 52.5Q1812.0 41 1804.0 26Q1789.0 0 1726.0 0Q1678.0 0 1657.0 17Q1641.0 31 1639.0 60Q1639.0 70 1639.0 89V440Q1639.0 463 1640.5 474.5Q1642.0 486 1649.0 500Q1663.0 527 1727.0 527Q1787.0 527 1802.0 504Q1813.0 488 1813.0 471Q1818.0 478 1827.5 488.0Q1837.0 498 1868.0 515.0Q1899.0 532 1922.5 532.0Q1946.0 532 1962.0 529.5Q1978.0 527 1997.0 521.0Q2016.0 515 2028.5 500.5Q2041.0 486 2041.0 454.0Q2041.0 422 2022.0 384.0Q2003.0 346 1967.0 346ZM2406.0 264 2539.0 154Q2564.0 133 2570.5 122.0Q2577.0 111 2577.0 101Q2577.0 77 2546.0 36Q2512.0 -6 2486.0 -6Q2464.0 -6 2425.0 23L2415.0 30Q2392.0 49 2344.0 96.5Q2296.0 144 2271.0 164V87Q2271.0 64 2269.5 52.5Q2268.0 41 2260.0 26Q2247.0 0 2183.0 0Q2120.0 0 2106.0 27Q2099.0 42 2097.5 53.5Q2096.0 65 2096.0 88V687Q2096.0 710 2097.5 721.5Q2099.0 733 2106.0 748Q2120.0 775 2184.0 775Q2232.0 775 2252.0 758Q2269.0 744 2270.0 714Q2271.0 705 2271.0 686V369Q2289.0 384 2325.5 420.0Q2362.0 456 2380.0 471L2392.0 479Q2427.0 506 2452.0 506.0Q2477.0 506 2509.5 465.5Q2542.0 425 2542.0 402.0Q2542.0 379 2505.0 348ZM2636.0 47Q2617.0 59 2617.0 85.0Q2617.0 111 2655.0 164Q2666.0 181 2690.5 181.0Q2715.0 181 2757.0 156.5Q2799.0 132 2833.0 132Q2894.0 132 2894.0 156Q2894.0 175 2827.0 184Q2764.0 193 2702.0 231Q2673.0 249 2654.0 287.5Q2635.0 326 2635.0 379Q2635.0 537 2852.0 537Q2923.0 537 2998.0 503Q3033.0 487 3033.0 463.0Q3033.0 439 3011.0 404.0Q2989.0 369 2966.0 369Q2954.0 369 2921.5 384.0Q2889.0 399 2851.0 399Q2792.0 399 2792.0 377Q2792.0 347 2860.0 338Q2926.0 331 2988.0 300Q3017.0 286 3036.5 251.5Q3056.0 217 3056.0 165.0Q3056.0 113 3036.5 76.5Q3017.0 40 2982.0 22Q2918.0 -9 2821.5 -9.0Q2725.0 -9 2636.0 47Z" transform="translate(56.333,39.400) scale(0.020000,-0.020000)" fill="#f7f0dd"/></g><pattern id="cardTileKiri" width="118.509" height="230.000" patternUnits="userSpaceOnUse" patternTransform="rotate(-24)"><rect width="118.509" height="230.000" fill="#efe0a6"/><g fill-opacity="0.85" stroke-opacity="0.85"><use href="#ct_unitKiri" transform="translate(47.404,-46.000)"/><use href="#ct_unitKiri" transform="translate(-71.106,-46.000)"/><use href="#ct_unitKiri" transform="translate(0.000,0.000)"/><use href="#ct_unitKiri" transform="translate(-118.509,0.000)"/><use href="#ct_unitKiri" transform="translate(71.106,46.000)"/><use href="#ct_unitKiri" transform="translate(-47.404,46.000)"/><use href="#ct_unitKiri" transform="translate(23.702,92.000)"/><use href="#ct_unitKiri" transform="translate(-94.807,92.000)"/><use href="#ct_unitKiri" transform="translate(94.807,138.000)"/><use href="#ct_unitKiri" transform="translate(-23.702,138.000)"/><use href="#ct_unitKiri" transform="translate(47.404,184.000)"/><use href="#ct_unitKiri" transform="translate(-71.106,184.000)"/><use href="#ct_unitKiri" transform="translate(0.000,230.000)"/><use href="#ct_unitKiri" transform="translate(-118.509,230.000)"/></g></pattern></defs>
 
   <!-- Gear icon (settings panel trigger) -->
   <symbol id="icon-settings" viewBox="0 0 24 24">
@@ -638,11 +638,11 @@
     <image href="cards/m01_kasu1.png" x="9" y="9" width="202" height="332" preserveAspectRatio="xMidYMid slice"/>
     <rect x="3" y="3" width="214" height="344" rx="14" fill="none" stroke="#20201c" stroke-width="2.5"/>
   </symbol>
+  <!-- v1.54: 松のカス2をユーザー手描きPNGに差し替え（新規・縁付き）。地紋は画像に焼き込み済み -->
   <symbol id="m01_kasu2" viewBox="0 0 220 350">
-    <rect x="3" y="3" width="214" height="344" rx="14" fill="url(#cardTile)" stroke="#20201c" stroke-width="2.5"/>
-    <use href="#kasumi"/>
-    <g fill="none" stroke="#3d2a12" stroke-width="7" stroke-linecap="round"><path d="M70 320 C 74 250 62 200 84 160 C 96 138 82 118 92 96"/><path d="M78 208 C 102 200 118 206 136 198"/><path d="M82 150 C 70 138 64 120 72 104"/></g>
-    <use href="#pineTuft" transform="translate(136,198) rotate(14)"/><use href="#pineTuft" transform="translate(72,104) rotate(-20) scale(.86)"/><use href="#pineTuft" transform="translate(104,150) rotate(6) scale(.82)"/><use href="#pineTuft" transform="translate(64,150) rotate(-40) scale(.72)"/>
+    <rect x="3" y="3" width="214" height="344" rx="14" fill="#f1e6c6" stroke="none"/>
+    <image href="cards/m01_kasu2.png" x="9" y="9" width="202" height="332" preserveAspectRatio="xMidYMid slice"/>
+    <rect x="3" y="3" width="214" height="344" rx="14" fill="none" stroke="#20201c" stroke-width="2.5"/>
   </symbol>
 
   <!-- ---- 2月 梅 ---- -->
@@ -1053,7 +1053,7 @@
   <header class="site-header">
     <svg class="app-icon" viewBox="-46 -50 92 80"><use href="#momoHana"/></svg>
     <div class="title-block">
-      <h1>MOMO&nbsp;<span class="svc">Hanafuda</span><span class="version-tag">v1.53</span></h1>
+      <h1>MOMO&nbsp;<span class="svc">Hanafuda</span><span class="version-tag">v1.54</span></h1>
       <div class="header-sub" id="subtitle-lobby">Floral Deck, Subtle Hazard</div>
     </div>
     <div id="top-controls">
@@ -1108,7 +1108,7 @@
   <header class="site-header">
     <svg class="app-icon" viewBox="-46 -50 92 80"><use href="#momoHana"/></svg>
     <div class="title-block">
-      <h1>MOMO&nbsp;<span class="svc">Hanafuda</span><span class="version-tag">v1.53</span></h1>
+      <h1>MOMO&nbsp;<span class="svc">Hanafuda</span><span class="version-tag">v1.54</span></h1>
       <div class="header-sub" id="subtitle-room">Floral Deck, Subtle Hazard</div>
     </div>
   </header>
@@ -1187,7 +1187,7 @@
   <div class="titleblock">
     <div class="site-header">
       <svg class="app-icon" viewBox="-46 -50 92 80"><use href="#momoHana"/></svg>
-      <h1>MOMO&nbsp;<span class="svc">Hanafuda</span><span class="version-tag">v1.53</span></h1>
+      <h1>MOMO&nbsp;<span class="svc">Hanafuda</span><span class="version-tag">v1.54</span></h1>
     </div>
     <div class="header-sub" id="subtitle-game">Floral Deck, Subtle Hazard</div>
   </div>
@@ -1392,7 +1392,7 @@
 // --------------------------------------------------------------------------
 // 1) 定数
 // --------------------------------------------------------------------------
-const APP_VERSION = 'v1.53';
+const APP_VERSION = 'v1.54';
 const SIGNALING_URL = 'wss://momo-server-reversi.onrender.com';
 const LANG_APP_ID = 'hanafuda';
 const SUPPORTED_LANGS = ['ja', 'en', 'zh', 'cat'];
@@ -1497,7 +1497,7 @@ const I18N = {
     'game.turn.pickDraw': (p) => (p && p.who ? p.who : '？') + ' の番：めくり札と合わせる場札を選んでください',
     'game.turn.yaku': (p) => (p && p.who ? p.who : '？') + ' に役が成立！',
     'game.turn.end': '対局終了',
-    'game.near.prefix': 'あと1枚で',
+    'game.near.prefix': 'あと1枚で', 'game.done.prefix': '達成した役：',
     'yaku.gokou': '五光',
     'yaku.shikou': '四光',
     'yaku.amenoshikou': '雨四光',
@@ -1682,7 +1682,7 @@ const I18N = {
     'game.turn.pickDraw': (p) => (p && p.who ? p.who : '?') + "'s turn: pick a field card to match the drawn card",
     'game.turn.yaku': (p) => (p && p.who ? p.who : '?') + ' scored a yaku!',
     'game.turn.end': 'Round over',
-    'game.near.prefix': 'One away from',
+    'game.near.prefix': 'One away from', 'game.done.prefix': 'Done: ',
     'yaku.gokou': 'Gokou (5 Lights)',
     'yaku.shikou': 'Shikou (4 Lights)',
     'yaku.amenoshikou': 'Ame-Shikou (Rainy 4)',
@@ -1867,7 +1867,7 @@ const I18N = {
     'game.turn.pickDraw': (p) => (p && p.who ? p.who : '？') + ' 的回合：选择要与翻出牌合的场牌',
     'game.turn.yaku': (p) => (p && p.who ? p.who : '？') + ' 成役！',
     'game.turn.end': '对局结束',
-    'game.near.prefix': '还差1张成为',
+    'game.near.prefix': '还差1张成为', 'game.done.prefix': '已成立：',
     'yaku.gokou': '五光',
     'yaku.shikou': '四光',
     'yaku.amenoshikou': '雨四光',
@@ -2080,7 +2080,7 @@ const state = {
     draw: 'keep',
     koikoiMul: 'on', // v1.44: こいこい多重掛け（1回×2/2回×3/3回×4）。OFFはフラット×2
     baigaeshi: 'on', // v1.44: 倍返し（相手のこいこいを潰して上がると×2）
-    koiOnce: 'off', // v1.53: こいこいは1局1人だけ（既定オフ）。ON時は koikoiMul を自動OFF
+    koiOnce: 'off', // v1.54: こいこいは1局1人だけ（既定オフ）。ON時は koikoiMul を自動OFF
     hint: 'on', // v1.42: あと1枚で役のヒント表示（既定オン）
   },
   oya: null,            // 'host' | 'guest' | null
@@ -2271,7 +2271,7 @@ function applySettingToggle(key, v) {
   state.settings[key] = v;
   const seg = document.querySelector('#set-koikoi .seg[data-key="' + key + '"]');
   if (seg) seg.querySelectorAll('button').forEach(b => b.classList.toggle('on', b.dataset.v === v));
-  // v1.53: 「こいこいは1局1人だけ」ON時は多重掛けを自動OFF（1回しか出せないので倍率は無意味）
+  // v1.54: 「こいこいは1局1人だけ」ON時は多重掛けを自動OFF（1回しか出せないので倍率は無意味）
   if (key === 'koiOnce' && v === 'on' && state.settings.koikoiMul !== 'off') {
     state.settings.koikoiMul = 'off';
     const ms = document.querySelector('#set-koikoi .seg[data-key="koikoiMul"]');
@@ -2282,7 +2282,7 @@ function applySettingToggle(key, v) {
     MomoMatchmaking.send({ type: 'settings', settings: state.settings });
   }
 }
-// v1.53: koiOnce ON の間は多重掛けトグルを操作不可＋淡色に（自動OFF済みを明示）
+// v1.54: koiOnce ON の間は多重掛けトグルを操作不可＋淡色に（自動OFF済みを明示）
 function updateKoiOnceLock() {
   const on = state.settings.koiOnce === 'on';
   const ms = document.querySelector('#set-koikoi .seg[data-key="koikoiMul"]');
@@ -2755,7 +2755,7 @@ function applySettingsToUi() {
     const seg = document.querySelector('#set-koikoi .seg[data-key="' + k + '"]');
     if (seg) seg.querySelectorAll('button').forEach(b => b.classList.toggle('on', b.dataset.v === v));
   });
-  updateKoiOnceLock(); // v1.53
+  updateKoiOnceLock(); // v1.54
 }
 
 // --------------------------------------------------------------------------
@@ -2889,7 +2889,7 @@ const AUDIO = (function () {
   const DEF_BGM = 40, DEF_SFX = 50;
   let ctx = null, bgmGain = null, sfxGain = null;
   let bgmVol = DEF_BGM, sfxVol = DEF_SFX, loaded = false;
-  let bgmMuted = false, sfxMuted = false;   // v1.53: ミュート（音量は保持したまま消音）
+  let bgmMuted = false, sfxMuted = false;   // v1.54: ミュート（音量は保持したまま消音）
   let audioOn = false;         // 再生同意が取れたら true（以後 BGM/効果音が鳴る）
   let desiredPool = 'lobby';   // いま鳴らすべきプール（同意前でも憶えておく）
   function clampVol(v) { v = v | 0; return v < 0 ? 0 : v > 100 ? 100 : v; }
@@ -2903,7 +2903,7 @@ const AUDIO = (function () {
       sfxMuted = localStorage.getItem(KEY_SFX_MUTE) === '1';
     } catch (e) {}
   }
-  function applyGains() {   // v1.53: ミュート考慮でゲイン反映（音量値は保持）
+  function applyGains() {   // v1.54: ミュート考慮でゲイン反映（音量値は保持）
     if (bgmGain) bgmGain.gain.value = bgmMuted ? 0 : bgmVol / 100;
     if (sfxGain) sfxGain.gain.value = sfxMuted ? 0 : sfxVol / 100;
   }
@@ -2926,7 +2926,7 @@ const AUDIO = (function () {
     loadPersisted(); val = !!val;
     if (kind === 'sfx') sfxMuted = val; else bgmMuted = val;
     persistMute(); applyGains();
-    // v1.53: BGM をミュート解除したら、鳴らせる状況なら鳴らし始める
+    // v1.54: BGM をミュート解除したら、鳴らせる状況なら鳴らし始める
     if (kind !== 'sfx' && !val && audioOn) { resumeCtx(); if (!curSource) playRandomBgm(desiredPool); }
   }
 
@@ -2981,7 +2981,7 @@ const AUDIO = (function () {
   async function resumeCtx() { ensureCtx(); if (!ctx) return; if (ctx.state === 'suspended') { try { await ctx.resume(); } catch (e) {} } }
   async function suspendCtx() { if (!ctx) return; if (ctx.state === 'running') { try { await ctx.suspend(); } catch (e) {} } }
   async function enable() { loadPersisted(); audioOn = true; bgmMuted = false; sfxMuted = false; persistMute(); applyGains(); await resumeCtx(); playRandomBgm(desiredPool); preloadSfx(); } // モーダル「再生する」＝ミュート解除して再生
-  // v1.53 モーダル「鳴らさない」＝音量は保持したままミュートON。再生可能状態(audioOn)にはするので、後で設定パネルのミュートを外せば鳴る
+  // v1.54 モーダル「鳴らさない」＝音量は保持したままミュートON。再生可能状態(audioOn)にはするので、後で設定パネルのミュートを外せば鳴る
   async function enableMuted() { loadPersisted(); audioOn = true; bgmMuted = true; sfxMuted = true; persistMute(); applyGains(); await resumeCtx(); preloadSfx(); }
   function isOn() { return audioOn; }
   // 可視性: 隠れたら suspend、1時間以上ぶりの復帰はモーダル再表示（Darts/Shogi 準拠）
@@ -2990,7 +2990,7 @@ const AUDIO = (function () {
   function bindVisibility(longResumeCb) {
     onLongResume = longResumeCb;
     if (visBound) return; visBound = true;
-    // v1.53: Android PWA（ホームのMOMO Worksアイコン等・同一スコープ）で他アプリ復帰時に
+    // v1.54: Android PWA（ホームのMOMO Worksアイコン等・同一スコープ）で他アプリ復帰時に
     //   BGM が止められなくなる問題の対策。真因＝アプリ切替では pagehide が出ず visibilitychange
     //   だけが起き、復帰の visible で resumeCtx() が鳴らし直していた。
     //   → 隠れたら BGM を完全停止し、復帰しても自動再生せず「次のユーザー操作」で初めて再開する。
@@ -3180,7 +3180,7 @@ function reflectVolumeUI() {
       const S = document.getElementById(sl), L = document.getElementById(lb);
       if (S) S.value = val; if (L) L.textContent = val + '%';
     });
-  // v1.53: ミュートチェックの反映（BGM/効果音それぞれ・設定パネルとモーダルで共有）
+  // v1.54: ミュートチェックの反映（BGM/効果音それぞれ・設定パネルとモーダルで共有）
   const bm = AUDIO.getMuted('bgm'), sm = AUDIO.getMuted('sfx');
   [['bgm-mute', bm], ['music-bgm-mute', bm], ['sfx-mute', sm], ['music-sfx-mute', sm]].forEach(([id, v]) => {
     const c = document.getElementById(id); if (c) c.checked = v;
@@ -3196,7 +3196,7 @@ function bindVolumeSliders() {
     const el = document.getElementById(id);
     if (el) el.addEventListener('input', () => { AUDIO.setSfxVolume(+el.value); reflectVolumeUI(); });
   });
-  // v1.53: ミュートチェック（4か所）→ AUDIO.setMuted。解除で即再生
+  // v1.54: ミュートチェック（4か所）→ AUDIO.setMuted。解除で即再生
   [['bgm-mute', 'bgm'], ['music-bgm-mute', 'bgm'], ['sfx-mute', 'sfx'], ['music-sfx-mute', 'sfx']].forEach(([id, kind]) => {
     const c = document.getElementById(id);
     if (c) c.addEventListener('change', () => { AUDIO.setMuted(kind, c.checked); reflectVolumeUI(); });
@@ -3863,7 +3863,7 @@ function renderNearYaku(player, elId) {
   if (!el) return;
   if (state.settings.hint === 'off') { el.textContent = ''; return; } // v1.42: ヒント表示OFF（成立役・あと1枚の両方を制御）
   const cards = state.game.caps[player] || [];
-  const doneYaku = computeYaku(cards); // v1.53: すでに成立している役（オレンジ表示用）
+  const doneYaku = computeYaku(cards); // v1.54: すでに成立している役（オレンジ表示用）
   const ids = {};
   cards.forEach(c => { ids[c.id] = true; });
   const hikariN = cards.filter(c => c.type === 'hikari').length;
@@ -3898,8 +3898,8 @@ function renderNearYaku(player, elId) {
   if (tanN === 4) add(t('yaku.tan'), TAN);
   if (taneN === 4) add(t('yaku.tane'), TANE);
   if (kasuN === 9) add(t('yaku.kasu'), KASU);
-  // v1.53: 成立役（オレンジ）を左、あと1枚（金）を右に並べる
-  const doneHtml = doneYaku.length ? doneYaku.map(y => '<b class="done">' + t(y.key) + '</b>').join('、') : '';
+  // v1.54: 成立役（オレンジ）を左、あと1枚（金）を右に並べる
+  const doneHtml = doneYaku.length ? (t('game.done.prefix') + doneYaku.map(y => '<b class="done">' + t(y.key) + '</b>').join('、')) : '';
   const nearHtml = hints.length ? (t('game.near.prefix') + ' ' + hints.map(h => '<b' + (h.dead ? ' class="dead"' : '') + '>' + h.name + '</b>').join('、')) : '';
   const parts = [];
   if (doneHtml) parts.push(doneHtml);
@@ -3919,7 +3919,7 @@ function fitBoard() {
     sg.style.setProperty('--card-w', w + 'px');
     sg.style.setProperty('--cap-w', Math.round(w * 0.76) + 'px');
   };
-  // v1.53: 横画面（A案）は左右2列。手札は左列＝半幅に8枚が収まる幅、取り札は右列で折り返し。
+  // v1.54: 横画面（A案）は左右2列。手札は左列＝半幅に8枚が収まる幅、取り札は右列で折り返し。
   if (window.matchMedia && window.matchMedia('(orientation:landscape)').matches) {
     const colW = (play.clientWidth - 10) / 2;
     let w = Math.max(26, Math.min(Math.floor((colW - 7 * HAND_GAP) / 8), 66));
@@ -4371,12 +4371,12 @@ function showYakuOverlay() {
   document.getElementById('ov-yaku-watch').textContent = isMyTurn ? '' : t('ov.yaku.oppchoosing');
   const bk = document.getElementById('btn-koikoi');
   const bs = document.getElementById('btn-shobu');
-  // v1.53: こいこいは1局1人だけ（設定オン時）＝その局で既に誰かがこいこい済みなら両者とも勝負のみ可
+  // v1.54: こいこいは1局1人だけ（設定オン時）＝その局で既に誰かがこいこい済みなら両者とも勝負のみ可
   const koikoiForbidden = (state.settings.koiOnce === 'on' && g.koikoiBy != null);
   bk.disabled = !isMyTurn || koikoiForbidden;
   bk.style.display = koikoiForbidden ? 'none' : '';
   bs.disabled = !isMyTurn;
-  const bm = document.getElementById('btn-minooshi'); // v1.53: 見送り（自分の手番のとき可）
+  const bm = document.getElementById('btn-minooshi'); // v1.54: 見送り（自分の手番のとき可）
   if (bm) bm.disabled = !isMyTurn;
   makeDraggable(panel, document.getElementById('ovYaku-drag')); // v1.21: 手を見たいので移動可能に
   document.getElementById('ovYaku').classList.add('show');
@@ -4428,7 +4428,7 @@ function onShobu() {
     MomoMatchmaking.send({ type: 'intent', action: 'shobu' });
   }
 }
-// v1.53: 見送り＝役を取らず勝負を継続。こいこい宣言はしない（倍化なし）。
+// v1.54: 見送り＝役を取らず勝負を継続。こいこい宣言はしない（倍化なし）。
 //        役は baseline に保持されるので、次に新しい役が出るまでパネルは出ない。
 //        最終的に勝負したとき pendingYaku（見送った役を含む全成立役）が normal 倍率で入る。
 function onMinooshi() {
@@ -4456,7 +4456,7 @@ function applyKoikoi() {
   const g = state.game;
   if (g.phase !== 'yaku') return;
   const cur = g.currentPlayer;
-  // v1.53: こいこいは1局1人だけ（設定オン）＝既に誰かがこいこい済みなら不可（不正クリック/intentも拒否）
+  // v1.54: こいこいは1局1人だけ（設定オン）＝既に誰かがこいこい済みなら不可（不正クリック/intentも拒否）
   if (state.settings.koiOnce === 'on' && g.koikoiBy != null) return;
   g.koikoiBy = cur;
   if (!g.koikoiCount) g.koikoiCount = { host: 0, guest: 0 };
@@ -5138,7 +5138,7 @@ function bindEvents() {
   });
   document.getElementById('btn-music-no').addEventListener('click', () => {
     document.getElementById('ovMusic').classList.remove('show');
-    AUDIO.enableMuted(); reflectVolumeUI();      // v1.53 鳴らさない＝音量は保持しミュートON（後で設定で解除可）
+    AUDIO.enableMuted(); reflectVolumeUI();      // v1.54 鳴らさない＝音量は保持しミュートON（後で設定で解除可）
   });
   // v1.17: 札の番号表示 ON/OFF（この端末のみ・既定 ON・localStorage 記憶）
   const tagSeg = document.getElementById('seg-showtag');